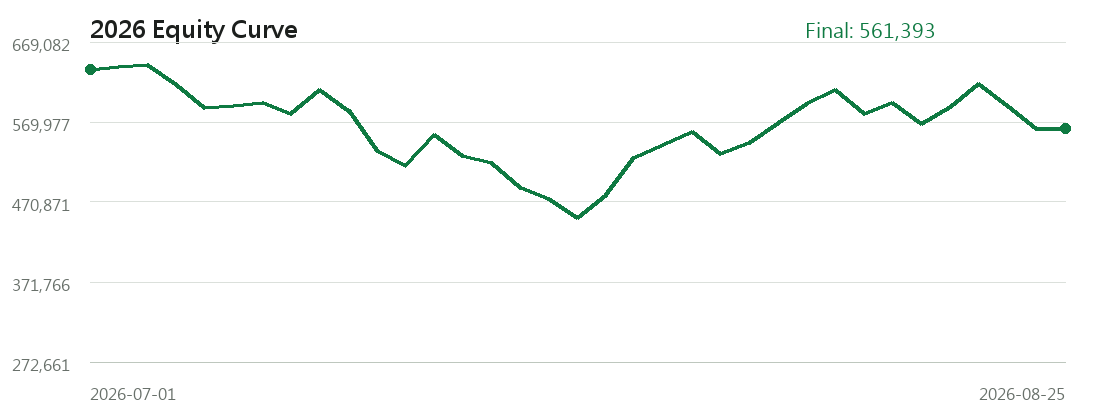
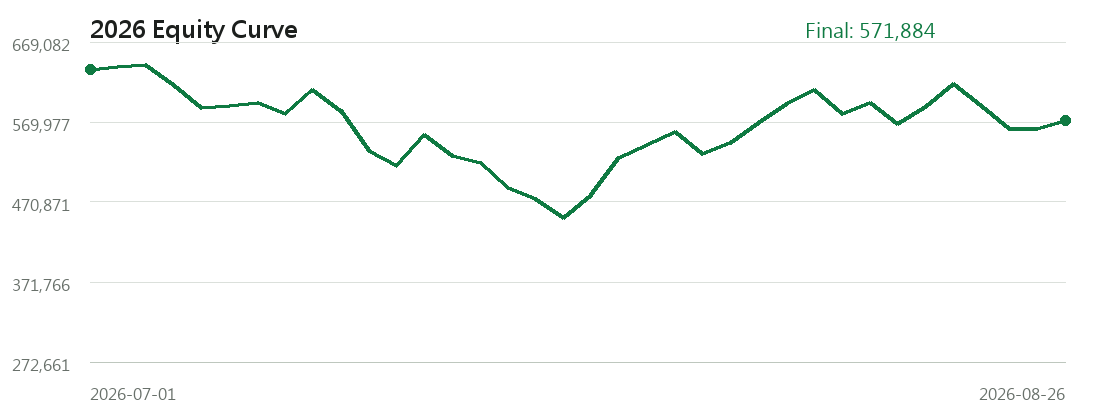
Update dashboard data

diff --git a/data.js b/data.js
@@ -1,5 +1,5 @@
 window.PUBLIC_FOLLOW_DATA = {
-  "generated_at": "2026-08-25T18:34:20.627146+08:00",
+  "generated_at": "2026-08-26T18:33:31.362108+08:00",
   "public_note": "Static follow dashboard only. Backend code, database, cache, and parameter search files are local-only.",
   "assumptions": {
     "initial_capital": 300000.0,
@@ -8,20 +8,20 @@ window.PUBLIC_FOLLOW_DATA = {
     "position_sizing": "Capital is split across up to 5 positions with integer-share sizing."
   },
   "data_status": {
-    "signal_date": "2026-08-25",
-    "latest_chip_date": "2026-08-25",
-    "latest_price_date": "2026-08-25",
-    "candidate_count": 0,
+    "signal_date": "2026-08-26",
+    "latest_chip_date": "2026-08-26",
+    "latest_price_date": "2026-08-26",
+    "candidate_count": 1,
     "warning": null
   },
   "metrics": {
     "initial_capital": 300000.0,
-    "final_value": 561393.0484176637,
+    "final_value": 571884.0484176637,
     "cash": -10566.45158233639,
-    "total_return_pct": 87.13101613922123,
-    "annualized_return_pct": 181.49554775152018,
+    "total_return_pct": 90.62801613922122,
+    "annualized_return_pct": 188.84667222712062,
     "start_date": "2026-01-16",
-    "end_date": "2026-08-25",
+    "end_date": "2026-08-26",
     "closed_trade_count": 42,
     "entry_count": 43,
     "open_position_count": 5,
@@ -240,6 +240,12 @@ window.PUBLIC_FOLLOW_DATA = {
       "equity": 561393.0484176637,
       "cash": -10566.45158233639,
       "position_count": 5
+    },
+    {
+      "date": "2026-08-26",
+      "equity": 571884.0484176637,
+      "cash": -10566.45158233639,
+      "position_count": 5
     }
   ],
   "holdings": [
@@ -249,11 +255,11 @@ window.PUBLIC_FOLLOW_DATA = {
       "quantity": 271,
       "entry_date": "2026-08-19",
       "entry_price": 400.0,
-      "current_price_date": "2026-08-25",
-      "current_price": 363.5,
-      "market_value": 98508.5,
-      "unrealized_return_pct": -9.125000000000005,
-      "holding_days": 6,
+      "current_price_date": "2026-08-26",
+      "current_price": 363.0,
+      "market_value": 98373.0,
+      "unrealized_return_pct": -9.250000000000004,
+      "holding_days": 7,
       "concept_tag_names": [
         "證券券商",
         "光纖/光纜",
@@ -270,11 +276,11 @@ window.PUBLIC_FOLLOW_DATA = {
       "quantity": 162,
       "entry_date": "2026-08-21",
       "entry_price": 770.0,
-      "current_price_date": "2026-08-25",
-      "current_price": 674.0,
-      "market_value": 109188.0,
-      "unrealized_return_pct": -12.467532467532472,
-      "holding_days": 4,
+      "current_price_date": "2026-08-26",
+      "current_price": 716.0,
+      "market_value": 115992.0,
+      "unrealized_return_pct": -7.012987012987015,
+      "holding_days": 5,
       "concept_tag_names": [
         "半導體設備",
         "證券券商",
@@ -291,11 +297,11 @@ window.PUBLIC_FOLLOW_DATA = {
       "quantity": 277,
       "entry_date": "2026-08-21",
       "entry_price": 438.5,
-      "current_price_date": "2026-08-25",
-      "current_price": 470.0,
-      "market_value": 130190.0,
-      "unrealized_return_pct": 7.1835803876852955,
-      "holding_days": 4,
+      "current_price_date": "2026-08-26",
+      "current_price": 457.0,
+      "market_value": 126589.0,
+      "unrealized_return_pct": 4.218928164196134,
+      "holding_days": 5,
       "concept_tag_names": [
         "證券券商",
         "NB/PC代工",
@@ -311,11 +317,11 @@ window.PUBLIC_FOLLOW_DATA = {
       "quantity": 972,
       "entry_date": "2026-08-25",
       "entry_price": 118.0,
-      "current_price_date": "2026-08-25",
-      "current_price": 116.5,
-      "market_value": 113238.0,
-      "unrealized_return_pct": -1.2711864406779627,
-      "holding_days": 0,
+      "current_price_date": "2026-08-26",
+      "current_price": 112.0,
+      "market_value": 108864.0,
+      "unrealized_return_pct": -5.0847457627118615,
+      "holding_days": 1,
       "concept_tag_names": [
         "連接器/線束",
         "證券券商",
@@ -331,11 +337,11 @@ window.PUBLIC_FOLLOW_DATA = {
       "quantity": 715,
       "entry_date": "2026-08-25",
       "entry_price": 157.0,
-      "current_price_date": "2026-08-25",
-      "current_price": 169.0,
-      "market_value": 120835.0,
-      "unrealized_return_pct": 7.643312101910826,
-      "holding_days": 0,
+      "current_price_date": "2026-08-26",
+      "current_price": 185.5,
+      "market_value": 132632.5,
+      "unrealized_return_pct": 18.152866242038222,
+      "holding_days": 1,
       "concept_tag_names": [
         "封測",
         "證券券商",
@@ -348,17 +354,97 @@ window.PUBLIC_FOLLOW_DATA = {
     }
   ],
   "trade_plan": {
-    "sell_orders": [],
-    "buy_orders": [],
-    "total_sell_amount": 0,
-    "total_buy_amount": 0,
+    "sell_orders": [
+      {
+        "stock_id": "6147",
+        "company_name": "頎邦",
+        "quantity": 715,
+        "price": 185.5,
+        "amount": 132632.5,
+        "concept_tag_names": [
+          "封測",
+          "證券券商",
+          "ASIC設計服務",
+          "半導體IP/設計服務",
+          "投資控股",
+          "檢測設備/服務",
+          "測試驗證服務"
+        ]
+      }
+    ],
+    "buy_orders": [
+      {
+        "stock_id": "3211",
+        "company_name": "順達",
+        "quantity": 314,
+        "price": 364.0,
+        "amount": 114296.0,
+        "action": "SELL_WEAKEST_BUY_CANDIDATE",
+        "entry_date": null,
+        "concept_tag_names": [
+          "證券券商",
+          "RF前端/功率放大器",
+          "化合物半導體/RF",
+          "工具機/自動化設備",
+          "投資控股",
+          "晶圓製程設備零組件",
+          "檢測設備/服務",
+          "特用化學/材料",
+          "電子回收/整新品",
+          "電池材料",
+          "基礎產業:電腦及週邊設備業"
+        ]
+      }
+    ],
+    "total_sell_amount": 132632.5,
+    "total_buy_amount": 114296.0,
     "starting_cash": -10566.45158233639,
-    "net_cash_change": 0,
-    "cash_after_plan": -10566.45158233639,
-    "needs_extra_cash": 10566.45158233639,
-    "remaining_cash": 0.0
+    "net_cash_change": 18336.5,
+    "cash_after_plan": 7770.048417663609,
+    "needs_extra_cash": 0.0,
+    "remaining_cash": 7770.048417663609
   },
-  "today_candidates": [],
+  "today_candidates": [
+    {
+      "rank": 1,
+      "signal_date": "2026-08-26",
+      "stock_id": "3211",
+      "company_name": "順達",
+      "action": "SELL_WEAKEST_BUY_CANDIDATE",
+      "reference_price": 364.0,
+      "target_amount": 114376.80968353273,
+      "suggested_quantity": 314,
+      "buy_amount": 114296.0,
+      "sell_stock_id": "6147",
+      "sell_company_name": "頎邦",
+      "sell_quantity": 715,
+      "sell_current_price": 185.5,
+      "sell_market_value": 132632.5,
+      "concept_tag_names": [
+        "證券券商",
+        "RF前端/功率放大器",
+        "化合物半導體/RF",
+        "工具機/自動化設備",
+        "投資控股",
+        "晶圓製程設備零組件",
+        "檢測設備/服務",
+        "特用化學/材料",
+        "電子回收/整新品",
+        "電池材料",
+        "基礎產業:電腦及週邊設備業"
+      ],
+      "sell_concept_tag_names": [
+        "封測",
+        "證券券商",
+        "ASIC設計服務",
+        "半導體IP/設計服務",
+        "投資控股",
+        "檢測設備/服務",
+        "測試驗證服務"
+      ],
+      "action_text": "換股買進"
+    }
+  ],
   "recent_entries": [
     {
       "stock_id": "3605",
